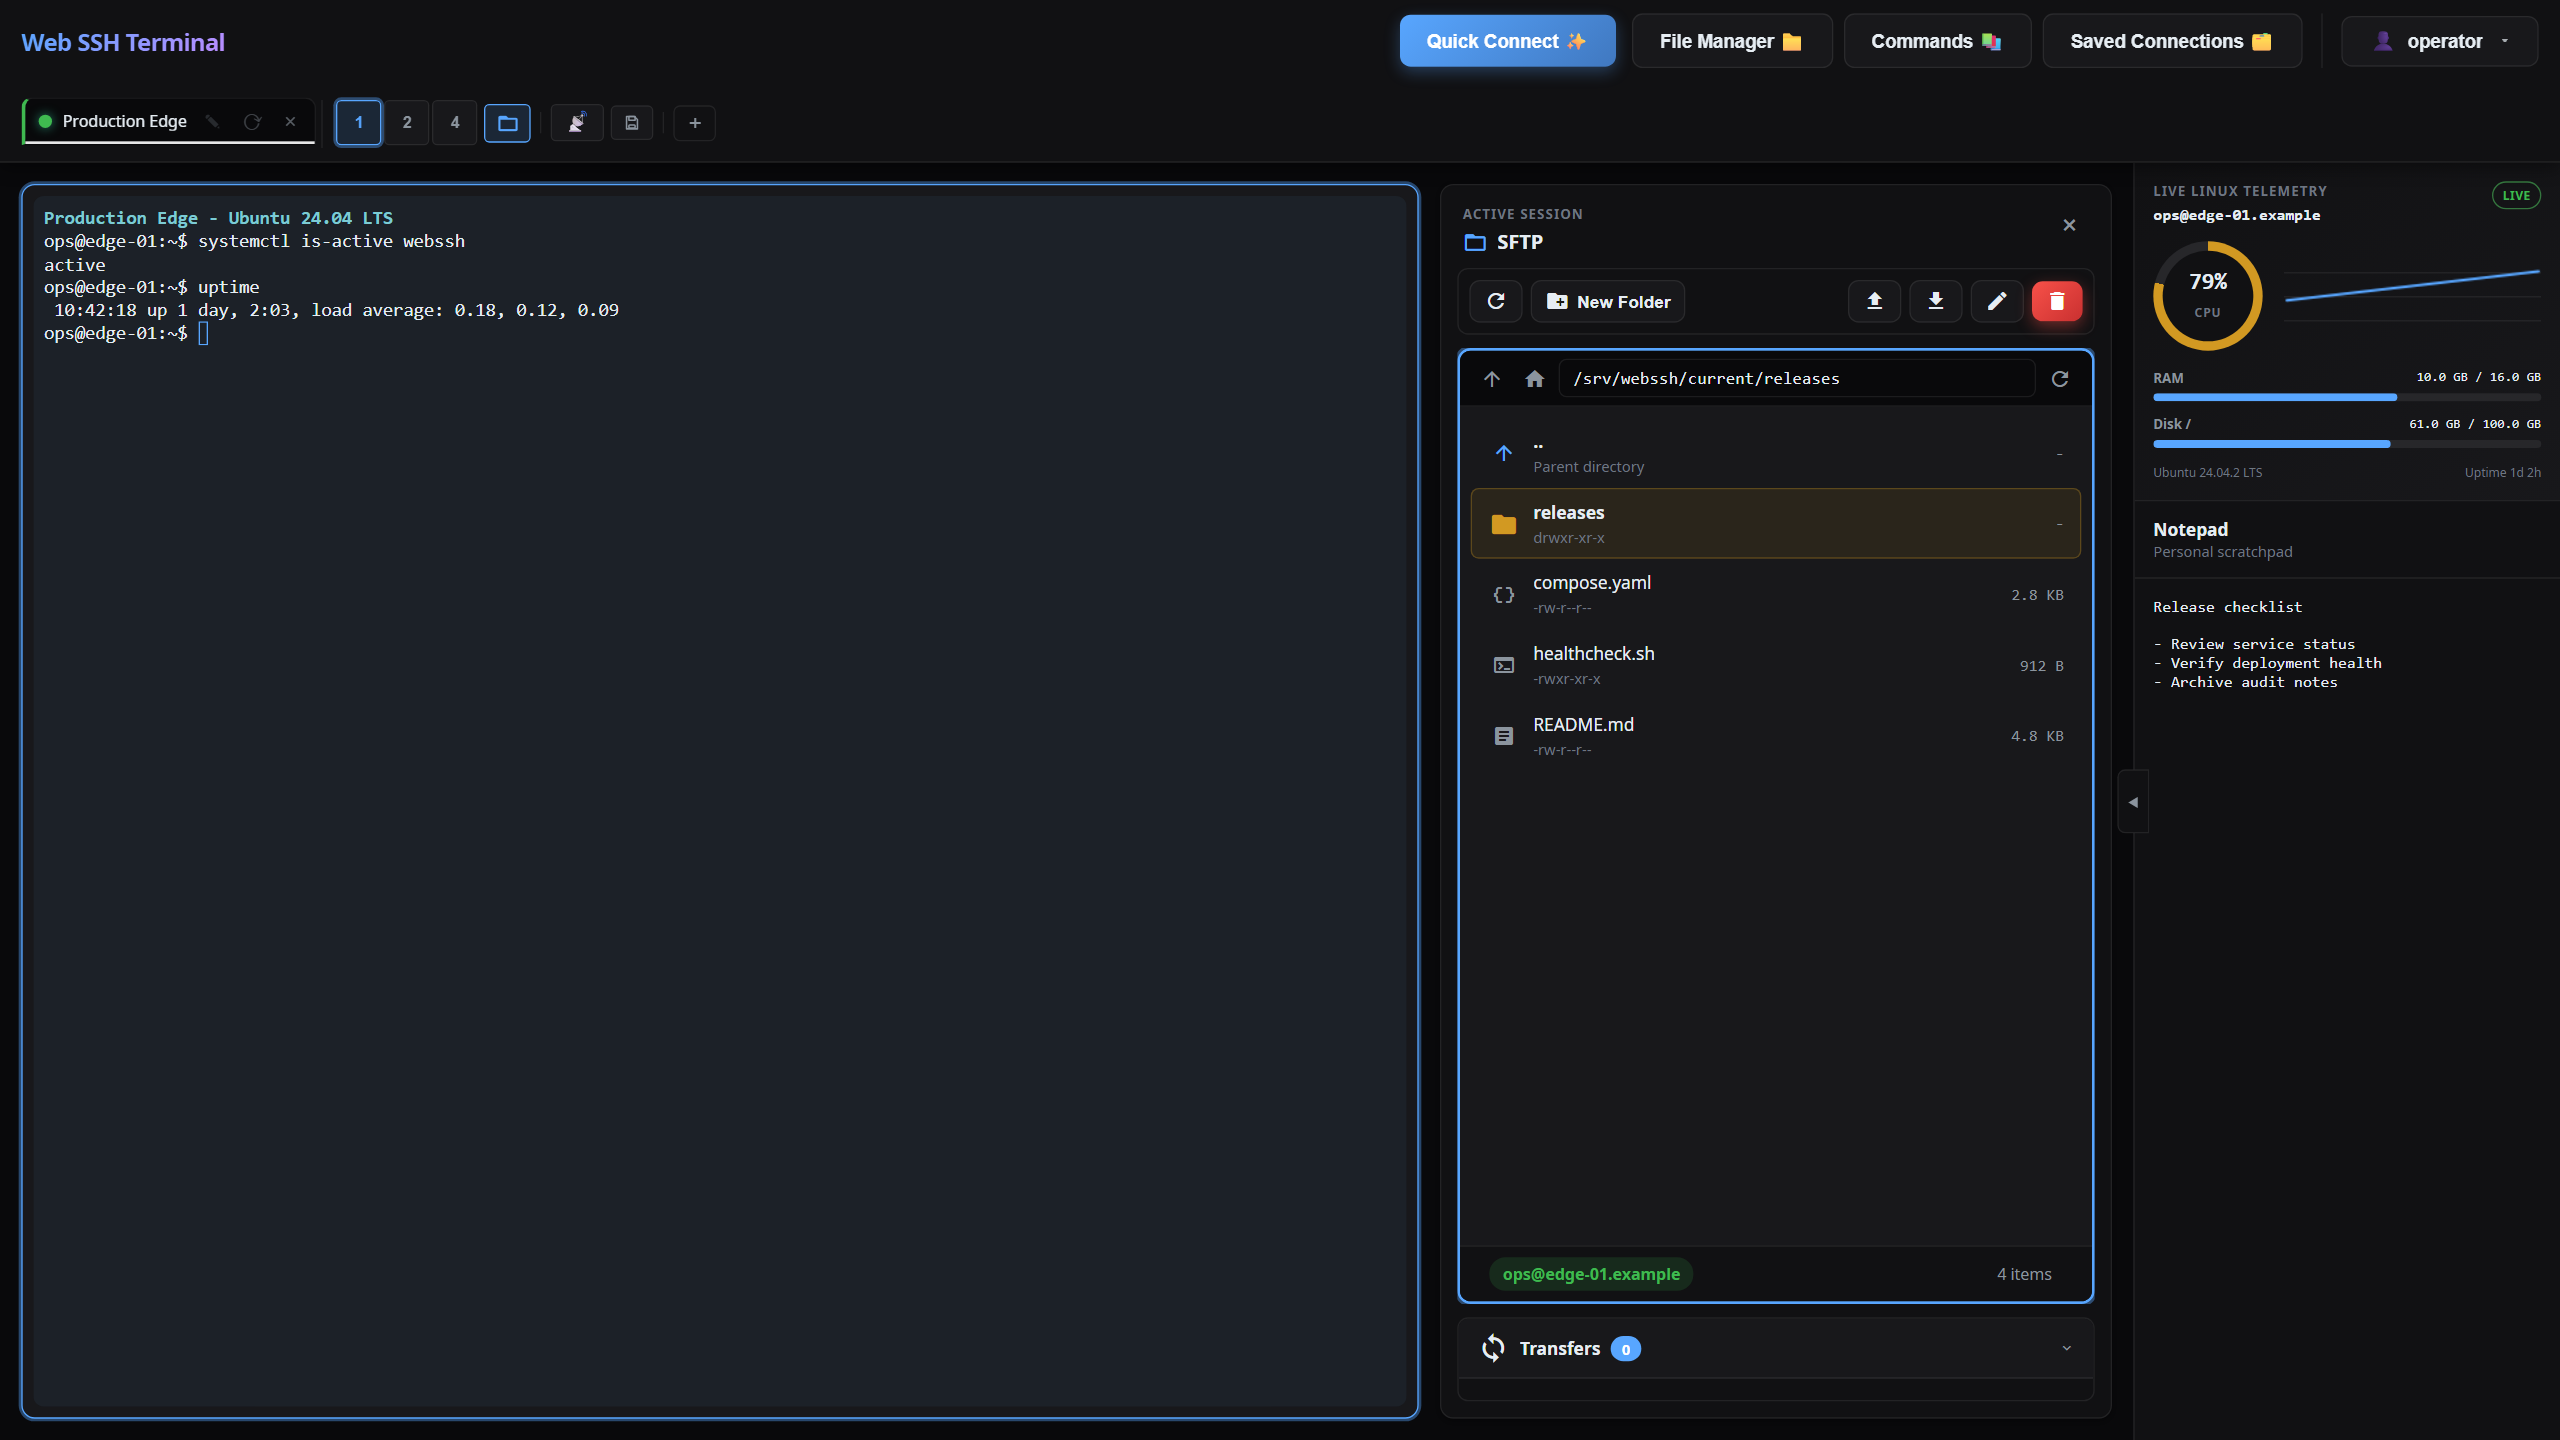
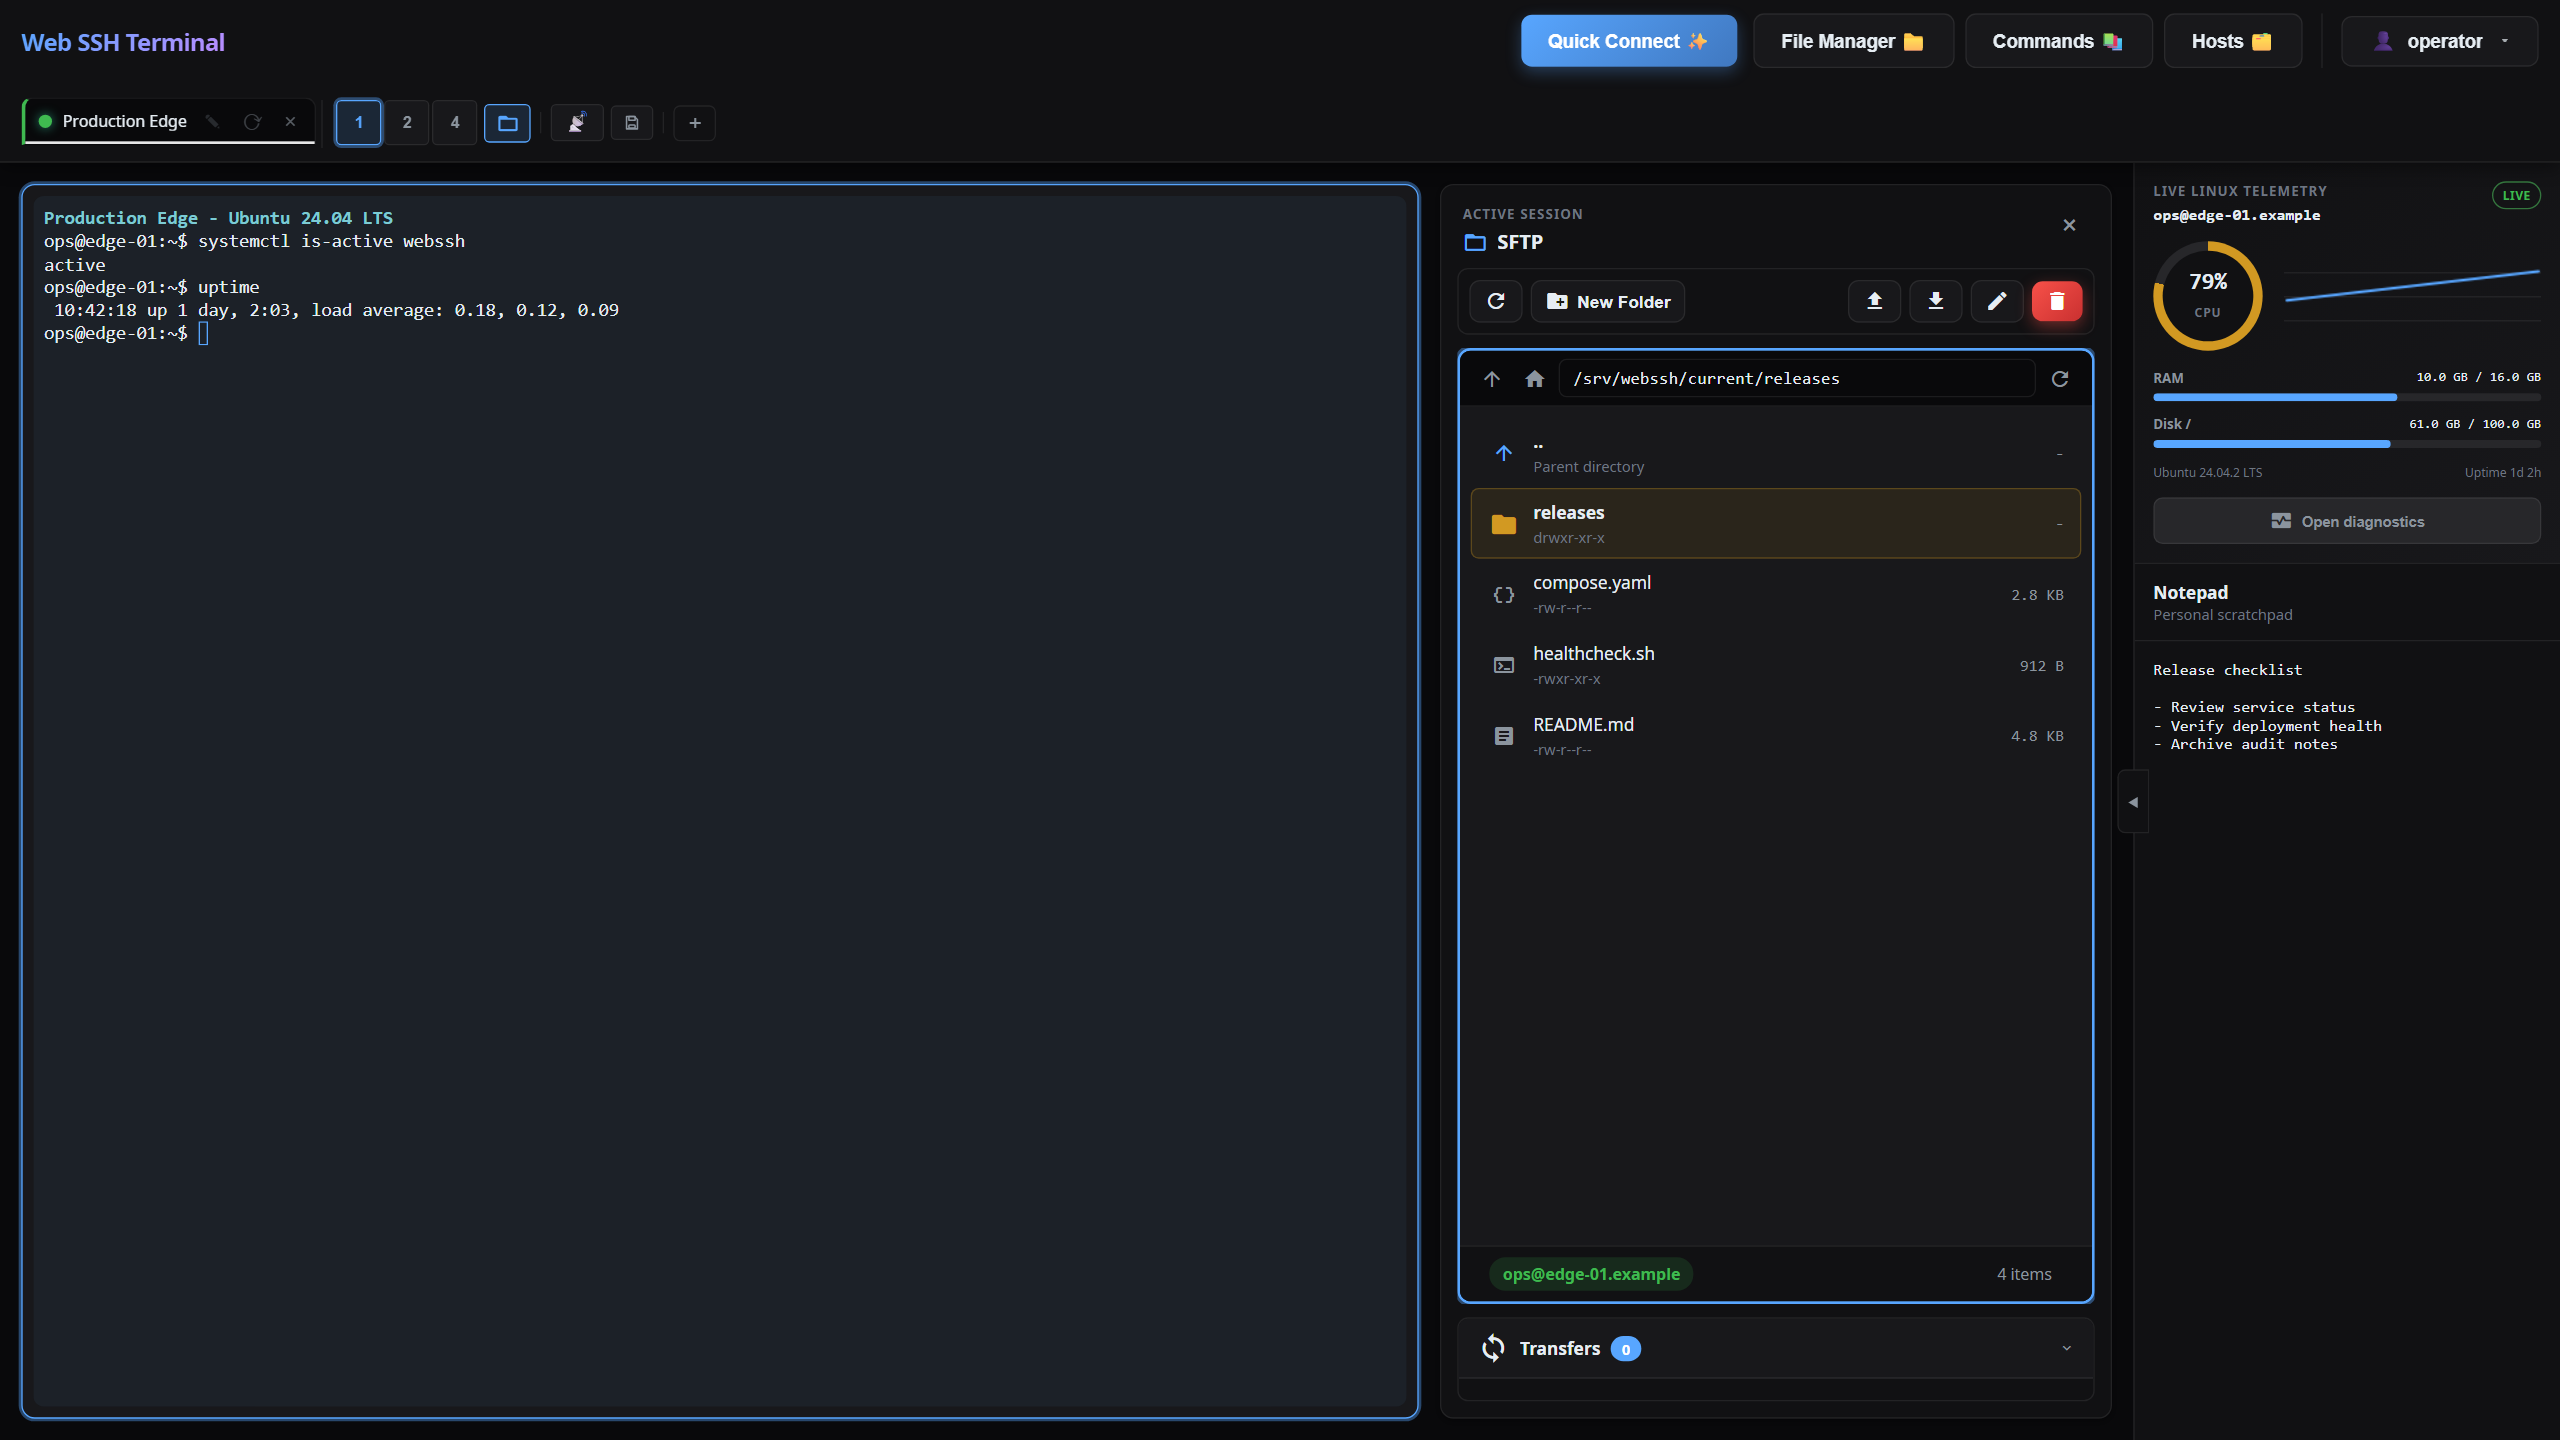
Document session diagnostics for v1.2.0

Changed region(s): [[0.5312, 0.0, 0.875, 0.0625], [0.8438, 0.3438, 0.9375, 0.5312]]

diff --git a/tests/e2e/session-workspace.spec.js b/tests/e2e/session-workspace.spec.js
@@ -8,10 +8,10 @@ test.use({
     deviceScaleFactor: 4 / 3,
 });
 
-function capturePath(testInfo) {
+function capturePath(testInfo, filename) {
     return process.env.WEBSSH_CAPTURE_ASSETS === '1'
-        ? path.resolve(__dirname, '..', '..', 'assets', 'session-workspace.png')
-        : testInfo.outputPath('session-workspace-2560x1440.png');
+        ? path.resolve(__dirname, '..', '..', 'assets', filename)
+        : testInfo.outputPath(filename);
 }
 
 function pngSize(filePath) {
@@ -283,7 +283,7 @@ test('single-session workspace combines terminal, SFTP, live Linux stats, and no
     expect(geometry.files.right).toBeLessThanOrEqual(geometry.insights.left + 1);
     expect(geometry.files.bottom).toBeLessThanOrEqual(geometry.viewport.height);
 
-    const screenshotPath = capturePath(testInfo);
+    const screenshotPath = capturePath(testInfo, 'session-workspace.png');
     await page.screenshot({
         path: screenshotPath,
         animations: 'disabled',
@@ -324,7 +324,7 @@ test('mobile workspace shows dormant diagnostics without polling', async ({ page
     await assertNoExternalRequests(page);
 });
 
-test('diagnostics canvas renders correlated inventory and keeps controls clipboard-only', async ({ page }) => {
+test('diagnostics canvas renders correlated inventory and keeps controls clipboard-only', async ({ page }, testInfo) => {
     await login(page);
     await seedLinuxSession(page);
     await expect(page.locator('header')).toHaveCount(1);
@@ -366,6 +366,14 @@ test('diagnostics canvas renders correlated inventory and keeps controls clipboa
     await expect(page.locator('#sessionDiagnosticsDockerContainers tr')).toHaveCount(2);
     await expect(page.locator('#sessionDiagnosticsDockerContainers')).toContainText('webssh');
     await expect(page.locator('#sessionDiagnosticsDockerContainers')).toContainText('worker');
+
+    const screenshotPath = capturePath(testInfo, 'session-diagnostics.png');
+    await page.screenshot({
+        path: screenshotPath,
+        animations: 'disabled',
+        caret: 'hide',
+    });
+    expect(pngSize(screenshotPath)).toEqual({ width: 2560, height: 1440 });
 
     const services = page.locator('#sessionDiagnosticsSystemdServices tr');
     const search = page.locator('#sessionDiagnosticsSystemdSearch');

diff --git a/README.md b/README.md
@@ -71,6 +71,9 @@ WebSSH is a secure, self-hosted workspace for SSH terminals and SFTP file operat
 - **Multi-Session Support** - Up to 10 concurrent SSH sessions with tabs
 - **Split Panes** - 1, 2, or 4-pane layouts for monitoring multiple servers
 - **Focused Session Workspace** - In single-pane mode, open the active server's SFTP browser beside its terminal while keeping live Linux CPU, RAM, disk, and uptime information next to the notepad
+- **Active Session Monitoring** - Follow CPU, memory, disk, load, uptime, process counts, and network throughput for the currently selected Linux session
+- **Expanded Diagnostics** - Open an 80%-width diagnostics drawer with resource history, pressure and network charts, top CPU and memory processes, systemd services, and Docker containers
+- **Clipboard-Only Service Actions** - Start, stop, and restart controls generate an allowlisted systemd command and copy it with visible confirmation; WebSSH never executes the service action itself
 - **Session Restoration** - Restore live sessions after a page refresh without injecting terminal input
 - **Persistent tmux Sessions** - Keep remote shells and running commands alive across browser closes and WebSSH restarts, then reattach later
 - **Manual Reconnect** - Reconnect from a session tab; SSH-key and Tailscale sessions can reconnect directly, while password sessions reopen the pre-filled connection form
@@ -88,6 +91,10 @@ WebSSH is a secure, self-hosted workspace for SSH terminals and SFTP file operat
 
 <p align="center">
   <img src="assets/session-workspace.png" alt="Single-session workspace with SSH terminal, embedded SFTP browser, live Linux server statistics, and notepad" width="1100">
+</p>
+
+<p align="center">
+  <img src="assets/session-diagnostics.png" alt="Active Linux session diagnostics with resource history, processes, systemd services, and Docker containers" width="1100">
 </p>
 
 <p align="center">
